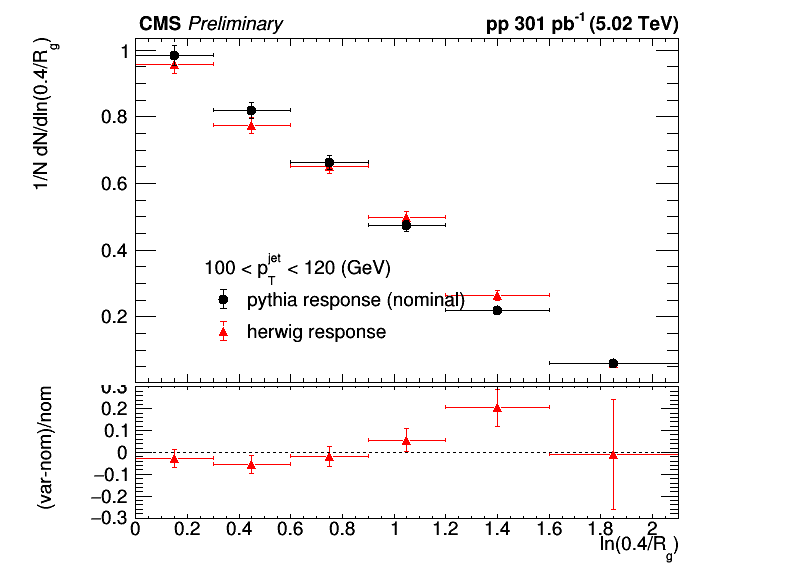
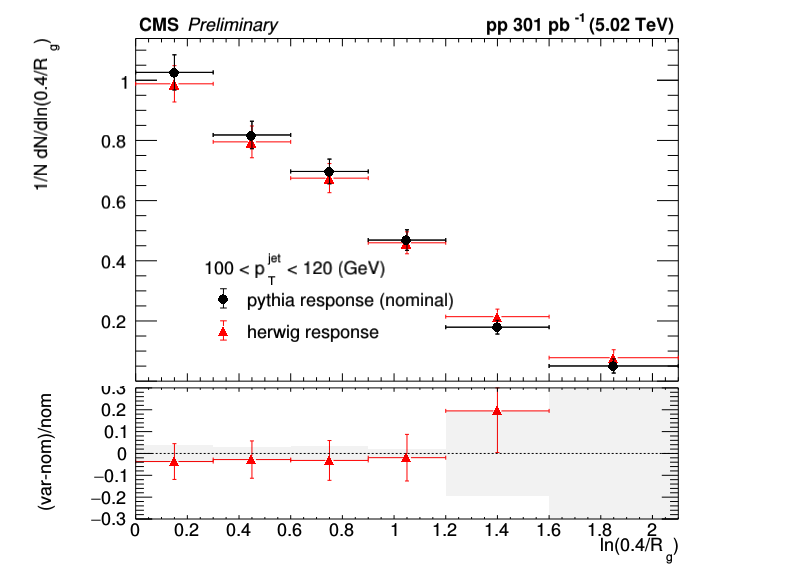
modelling unc for bjets

diff --git a/myMacros/C106X/uncertanties/model_unc.C b/myMacros/C106X/uncertanties/model_unc.C
@@ -18,7 +18,7 @@ void model_unc(TString observable="rg")
 
     TFile *fin_nom = new TFile("../unfolding/histos/pythia_PF40_aggrTMVA_XXT_unfolded_histograms_"+observable+"_jer_nom_jec_nom_withSF.root");
     TH2D *h_nom = (TH2D *) fin_nom->Get("h_data_unfolded")->Clone("h_nom");
-    TFile *fin_her = new TFile("../unfolding/histos/herwig_PF40_aggrTMVA_XXT_unfolded_histograms_"+observable+"_jer_nom_jec_nom_withSF.root");
+    TFile *fin_her = new TFile("../unfolding/histos/herwig_official_PF40_aggrTMVA_XXT_unfolded_histograms_"+observable+"_jer_nom_jec_nom_withSF.root");
     TH2D *h_her = (TH2D *) fin_her->Get("h_data_unfolded")->Clone("h_her");
     
     int nbins_x = h_nom->GetNbinsX();
@@ -122,6 +122,19 @@ void model_unc(TString observable="rg")
         
         // h_model_unc->Draw("hist same");
         h_model_unc_rel->Draw("pe1 same");
+
+        TH1D *h_band = (TH1D *) h_model_unc_rel->Clone("h_band");
+        h_band->Reset();
+        for (int ibin_x=1; ibin_x<=h_model_unc_rel->GetNbinsX(); ibin_x++) {
+            double maxUnc = h_model_unc_rel->GetBinContent(ibin_x);
+            h_band->SetBinContent(ibin_x, 0.);
+            h_band->SetBinError(ibin_x, maxUnc);
+        }
+
+        h_band->SetMarkerSize(0);
+        h_band->SetFillStyle(1001);
+        h_band->SetFillColorAlpha(kBlack, 0.05);
+        h_band->Draw("e2 same");
 
         TLine *line = new TLine(h_model_unc->GetXaxis()->GetBinLowEdge(ibin_x_min), 0, h_model_unc->GetXaxis()->GetBinUpEdge(ibin_x_max), 0);
         line->SetLineStyle(kDashed);
